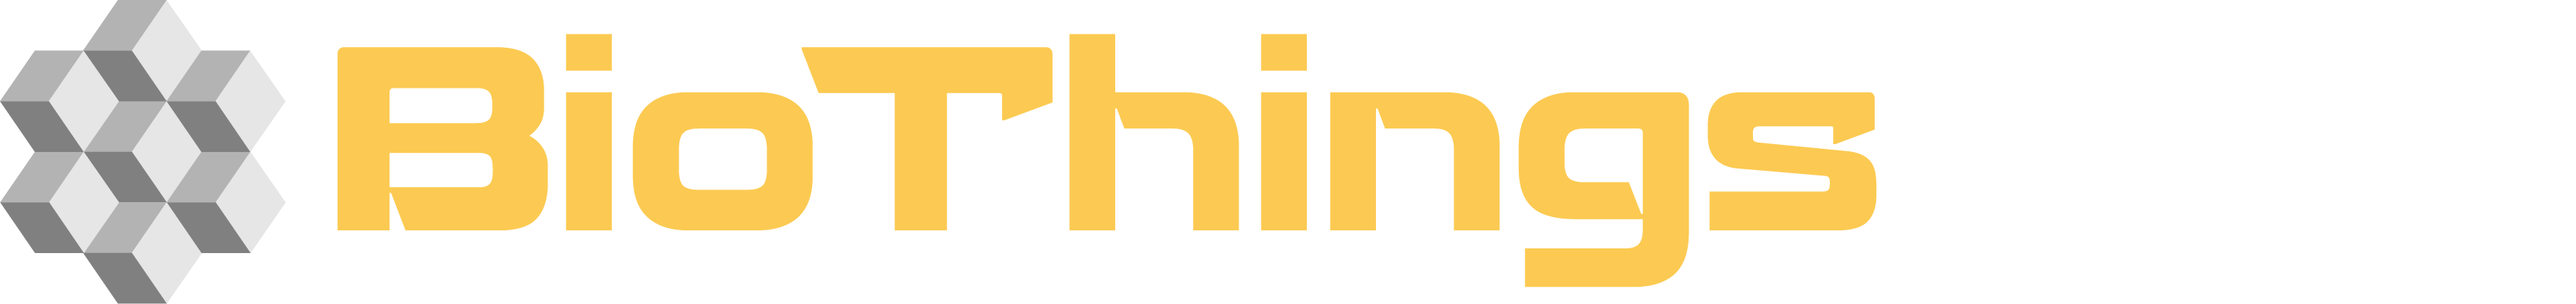
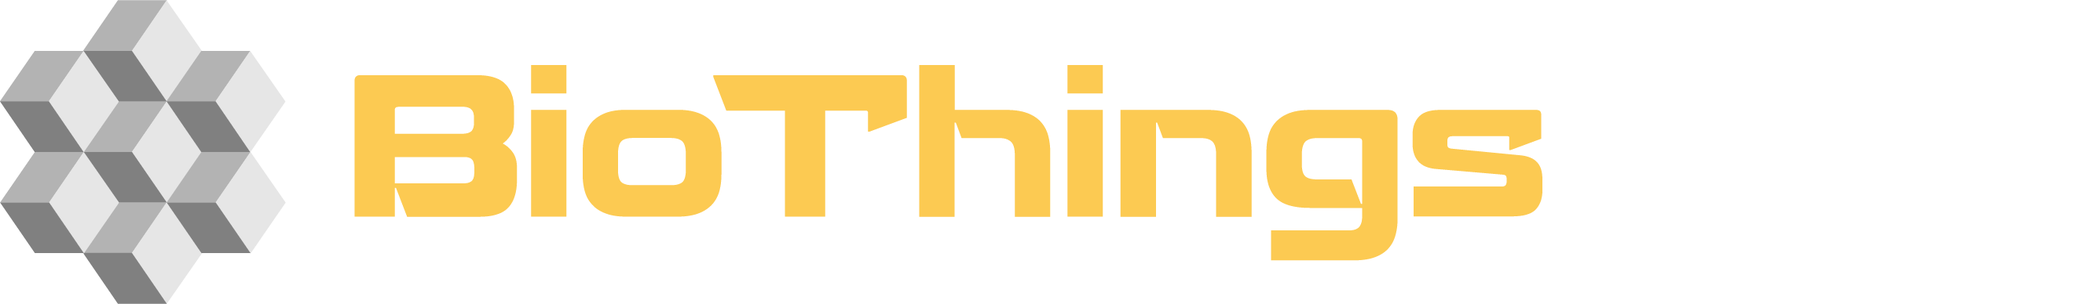
ipad bug fixed

Changed region(s): [[0.0, 0.0, 0.7489, 1.0]]

diff --git a/biothings-theme/static/html/branding.html b/biothings-theme/static/html/branding.html
@@ -137,7 +137,7 @@
 }
 
 .navbar-brand{
-  padding-top: .7125rem;
+  padding-top: 1.1rem;
 }
 
 .navbar-nav .nav-link{
@@ -235,7 +235,7 @@
       <div class="text-center backGrey margin20" id="biothings-branding">
         <div class="row">
           <div class="col-sm-12 col-md-12 col-lg-12 text-center">
-            <h2 class="logoFont padding20">BioThings API</h2>
+            <h2 class="logoFont padding20 margin20">BioThings API</h2>
             <hr />
             <p>
               We use the <b>Recharge</b> font by TypoDermicFonts. <a target="_blank" href="https://www.1001freefonts.com/recharge.font">More Info</a>
@@ -243,22 +243,22 @@
             <h3 class="text-muted padding20">Colors</h3>
             <div class="swatchParent">
               <div class="swatch" style="background-color:var(--yellow-dark);" id="bt1" value="#CE952B">#CE952B
-                <button class="copyButton swatchCopy" data-clipboard-target="#bt1"><i class="fas fa-copy"></i></button>
+                <button style="cursor: pointer;" class="copyButton swatchCopy" data-clipboard-target="#bt1"><i class="fas fa-copy"></i></button>
               </div>
               <div class="swatch" style="background-color:var(--yellow-medium);" id="bt2" value="#FCCA52">#FCCA52
-                <button class="copyButton swatchCopy" data-clipboard-target="#bt2"><i class="fas fa-copy"></i></button>
+                <button style="cursor: pointer;" class="copyButton swatchCopy" data-clipboard-target="#bt2"><i class="fas fa-copy"></i></button>
               </div>
               <div class="swatch" style="background-color:var(--yellow-light);" id="bt3" value="#FCBE38">#FCBE38
-                <button class="copyButton swatchCopy" data-clipboard-target="#bt3"><i class="fas fa-copy"></i></button>
+                <button style="cursor: pointer;" class="copyButton swatchCopy" data-clipboard-target="#bt3"><i class="fas fa-copy"></i></button>
               </div>
               <div class="swatch" style="background-color:var(--grey-dark);" id="bt4" value="#808080">#808080
-                <button class="copyButton swatchCopy" data-clipboard-target="#bt4"><i class="fas fa-copy"></i></button>
+                <button style="cursor: pointer;" class="copyButton swatchCopy" data-clipboard-target="#bt4"><i class="fas fa-copy"></i></button>
               </div>
               <div class="swatch" style="background-color:var(--grey-medium);" id="bt5" value="#B3B3B3">#B3B3B3
-                <button class="copyButton swatchCopy" data-clipboard-target="#bt5"><i class="fas fa-copy"></i></button>
+                <button style="cursor: pointer;" class="copyButton swatchCopy" data-clipboard-target="#bt5"><i class="fas fa-copy"></i></button>
               </div>
               <div class="swatch" style="background-color:var(--grey-light);" id="bt6" value="#E6E6E6">#E6E6E6
-                <button class="copyButton swatchCopy" data-clipboard-target="#bt6"><i class="fas fa-copy"></i></button>
+                <button style="cursor: pointer;" class="copyButton swatchCopy" data-clipboard-target="#bt6"><i class="fas fa-copy"></i></button>
               </div>
             </div>
 
@@ -310,7 +310,7 @@
       <div class="text-center backGrey margin20" id="biothings-studio-branding">
         <div class="row">
           <div class="col-sm-12 col-md-12 col-lg-12 text-center">
-            <h2 class="logoFont padding20">BioThings Studio</h2>
+            <h2 class="logoFont padding20 margin20">BioThings Studio</h2>
             <hr />
             <p>
               We use the <b>Recharge</b> font by TypoDermicFonts. <a target="_blank" href="https://www.1001freefonts.com/recharge.font">More Info</a>
@@ -318,22 +318,22 @@
             <h3 class="text-muted padding20">Colors</h3>
             <div class="swatchParent">
               <div class="swatch" style="background-color:#208CBC;" id="bts1" value="#208CBC">#208CBC
-              <button class="copyButton swatchCopy" data-clipboard-target="#bts1"><i class="fas fa-copy"></i></button>
+              <button style="cursor: pointer;" class="copyButton swatchCopy" data-clipboard-target="#bts1"><i class="fas fa-copy"></i></button>
             </div>
               <div class="swatch" style="background-color:#5ECAEF;" id="bts2" value="#5ECAEF">#5ECAEF
-              <button class="copyButton swatchCopy" data-clipboard-target="#bts2"><i class="fas fa-copy"></i></button>
+              <button style="cursor: pointer;" class="copyButton swatchCopy" data-clipboard-target="#bts2"><i class="fas fa-copy"></i></button>
             </div>
               <div class="swatch" style="background-color:#9EDAEF;" id="bts3" value="#9EDAEF">#9EDAEF
-              <button class="copyButton swatchCopy" data-clipboard-target="#bts3"><i class="fas fa-copy"></i></button>
+              <button style="cursor: pointer;" class="copyButton swatchCopy" data-clipboard-target="#bts3"><i class="fas fa-copy"></i></button>
             </div>
               <div class="swatch" style="background-color:var(--grey-dark);" id="bts4" value="#808080">#808080
-              <button class="copyButton swatchCopy" data-clipboard-target="#bts4"><i class="fas fa-copy"></i></button>
+              <button style="cursor: pointer;" class="copyButton swatchCopy" data-clipboard-target="#bts4"><i class="fas fa-copy"></i></button>
             </div>
               <div class="swatch" style="background-color:var(--grey-medium);" id="bts5" value="#B3B3B3">#B3B3B3
-              <button class="copyButton swatchCopy" data-clipboard-target="#bts5"><i class="fas fa-copy"></i></button>
+              <button style="cursor: pointer;" class="copyButton swatchCopy" data-clipboard-target="#bts5"><i class="fas fa-copy"></i></button>
             </div>
               <div class="swatch" style="background-color:var(--grey-light);" id="bts6" value="#E6E6E6">#E6E6E6
-              <button class="copyButton swatchCopy" data-clipboard-target="#bts6"><i class="fas fa-copy"></i></button>
+              <button style="cursor: pointer;" class="copyButton swatchCopy" data-clipboard-target="#bts6"><i class="fas fa-copy"></i></button>
             </div>
             </div>
 
@@ -385,7 +385,7 @@
       <div class="text-center backGrey margin20" id="mygene-branding">
         <div class="row">
           <div class="col-sm-12 col-md-12 col-lg-12 text-center">
-            <h2 class="logoFont padding20">MyGene.info</h2>
+            <h2 class="logoFont padding20 margin20">MyGene.info</h2>
             <hr />
             <p>
               We use the <b>Recharge</b> font by TypoDermicFonts. <a target="_blank" href="https://www.1001freefonts.com/recharge.font">More Info</a>
@@ -393,22 +393,22 @@
             <h3 class="text-muted padding20">Colors</h3>
             <div class="swatchParent">
               <div class="swatch" style="background-color:var(--blue-dark);" id="mg1" value="#3366CC">#3366CC
-              <button class="copyButton swatchCopy" data-clipboard-target="#mg1"><i class="fas fa-copy"></i></button>
+              <button style="cursor: pointer;" class="copyButton swatchCopy" data-clipboard-target="#mg1"><i class="fas fa-copy"></i></button>
             </div>
               <div class="swatch" style="background-color:var(--blue-medium);" id="mg2" value="#2A7FE2">#2A7FE2
-              <button class="copyButton swatchCopy" data-clipboard-target="#mg2"><i class="fas fa-copy"></i></button>
+              <button style="cursor: pointer;" class="copyButton swatchCopy" data-clipboard-target="#mg2"><i class="fas fa-copy"></i></button>
             </div>
               <div class="swatch" style="background-color:var(--blue-light);" id="mg3" value="#669BE8">#669BE8
-              <button class="copyButton swatchCopy" data-clipboard-target="#mg3"><i class="fas fa-copy"></i></button>
+              <button style="cursor: pointer;" class="copyButton swatchCopy" data-clipboard-target="#mg3"><i class="fas fa-copy"></i></button>
             </div>
               <div class="swatch" style="background-color:var(--grey-dark);" id="mg4" value="#808080">#808080
-              <button class="copyButton swatchCopy" data-clipboard-target="#mg4"><i class="fas fa-copy"></i></button>
+              <button style="cursor: pointer;" class="copyButton swatchCopy" data-clipboard-target="#mg4"><i class="fas fa-copy"></i></button>
             </div>
               <div class="swatch" style="background-color:var(--grey-medium);" id="mg5" value="#B3B3B3">#B3B3B3
-              <button class="copyButton swatchCopy" data-clipboard-target="#mg5"><i class="fas fa-copy"></i></button>
+              <button style="cursor: pointer;" class="copyButton swatchCopy" data-clipboard-target="#mg5"><i class="fas fa-copy"></i></button>
             </div>
               <div class="swatch" style="background-color:var(--grey-light);" id="mg6" value="#E6E6E6">#E6E6E6
-              <button class="copyButton swatchCopy" data-clipboard-target="#mg6"><i class="fas fa-copy"></i></button>
+              <button style="cursor: pointer;" class="copyButton swatchCopy" data-clipboard-target="#mg6"><i class="fas fa-copy"></i></button>
             </div>
             </div>
             <h3 class="text-muted padding20">Logos</h3>
@@ -459,7 +459,7 @@
       <div class="text-center backGrey margin20" id="myvariant-branding">
         <div class="row">
           <div class="col-sm-12 col-md-12 col-lg-12 text-center">
-            <h2 class="logoFont padding20">MyVariant.info</h2>
+            <h2 class="logoFont padding20 margin20">MyVariant.info</h2>
             <hr />
             <p>
               We use the <b>Recharge</b> font by TypoDermicFonts. <a target="_blank" href="https://www.1001freefonts.com/recharge.font">More Info</a>
@@ -467,22 +467,22 @@
             <h3 class="text-muted padding20">Colors</h3>
             <div class="swatchParent">
               <div class="swatch" style="background-color:var(--green-dark);" id="mv1" value="#40B307">#40B307
-              <button class="copyButton swatchCopy" data-clipboard-target="#mv1"><i class="fas fa-copy"></i></button>
+              <button style="cursor: pointer;" class="copyButton swatchCopy" data-clipboard-target="#mv1"><i class="fas fa-copy"></i></button>
             </div>
               <div class="swatch" style="background-color:var(--green-medium);" id="mv2" value="#67CF2E">#67CF2E
-              <button class="copyButton swatchCopy" data-clipboard-target="#mv2"><i class="fas fa-copy"></i></button>
+              <button style="cursor: pointer;" class="copyButton swatchCopy" data-clipboard-target="#mv2"><i class="fas fa-copy"></i></button>
             </div>
               <div class="swatch" style="background-color:var(--green-light);" id="mv3" value="#85D958">#85D958
-              <button class="copyButton swatchCopy" data-clipboard-target="#mv3"><i class="fas fa-copy"></i></button>
+              <button style="cursor: pointer;" class="copyButton swatchCopy" data-clipboard-target="#mv3"><i class="fas fa-copy"></i></button>
             </div>
               <div class="swatch" style="background-color:var(--grey-dark);" id="mv4" value="#808080">#808080
-              <button class="copyButton swatchCopy" data-clipboard-target="#mv4"><i class="fas fa-copy"></i></button>
+              <button style="cursor: pointer;" class="copyButton swatchCopy" data-clipboard-target="#mv4"><i class="fas fa-copy"></i></button>
             </div>
               <div class="swatch" style="background-color:var(--grey-medium);" id="mv5" value="#B3B3B3">#B3B3B3
-              <button class="copyButton swatchCopy" data-clipboard-target="#mv5"><i class="fas fa-copy"></i></button>
+              <button style="cursor: pointer;" class="copyButton swatchCopy" data-clipboard-target="#mv5"><i class="fas fa-copy"></i></button>
             </div>
               <div class="swatch" style="background-color:var(--grey-light);" id="mv6" value="#E6E6E6">#E6E6E6
-              <button class="copyButton swatchCopy" data-clipboard-target="#mv6"><i class="fas fa-copy"></i></button>
+              <button style="cursor: pointer;" class="copyButton swatchCopy" data-clipboard-target="#mv6"><i class="fas fa-copy"></i></button>
             </div>
             </div>
             <h3 class="text-muted padding20">Logos</h3>
@@ -533,7 +533,7 @@
       <div class="text-center backGrey margin20" id="mychem-branding">
         <div class="row">
           <div class="col-sm-12 col-md-12 col-lg-12 text-center">
-            <h2 class="logoFont padding20">MyChem.info</h2>
+            <h2 class="logoFont padding20 margin20">MyChem.info</h2>
             <hr />
             <p>
               We use the <b>Recharge</b> font by TypoDermicFonts. <a target="_blank" href="https://www.1001freefonts.com/recharge.font">More Info</a>
@@ -541,22 +541,22 @@
             <h3 class="text-muted padding20">Colors</h3>
             <div class="swatchParent">
               <div class="swatch" style="background-color:var(--orange-dark);" id="mc1" value="#CC6633">#CC6633
-              <button class="copyButton swatchCopy" data-clipboard-target="#mc1"><i class="fas fa-copy"></i></button>
+              <button style="cursor: pointer;" class="copyButton swatchCopy" data-clipboard-target="#mc1"><i class="fas fa-copy"></i></button>
             </div>
               <div class="swatch" style="background-color:var(--orange-medium);" id="mc2" value="#FD7400">#FD7400
-              <button class="copyButton swatchCopy" data-clipboard-target="#mc2"><i class="fas fa-copy"></i></button>
+              <button style="cursor: pointer;" class="copyButton swatchCopy" data-clipboard-target="#mc2"><i class="fas fa-copy"></i></button>
             </div>
               <div class="swatch" style="background-color:var(--orange-light);" id="mc3" value="#FF8E39">#FF8E39
-              <button class="copyButton swatchCopy" data-clipboard-target="#mc3"><i class="fas fa-copy"></i></button>
+              <button style="cursor: pointer;" class="copyButton swatchCopy" data-clipboard-target="#mc3"><i class="fas fa-copy"></i></button>
             </div>
               <div class="swatch" style="background-color:var(--grey-dark);" id="mc4" value="#808080">#808080
-              <button class="copyButton swatchCopy" data-clipboard-target="#mc4"><i class="fas fa-copy"></i></button>
+              <button style="cursor: pointer;" class="copyButton swatchCopy" data-clipboard-target="#mc4"><i class="fas fa-copy"></i></button>
             </div>
               <div class="swatch" style="background-color:var(--grey-medium);" id="mc5" value="#B3B3B3">#B3B3B3
-              <button class="copyButton swatchCopy" data-clipboard-target="#mc5"><i class="fas fa-copy"></i></button>
+              <button style="cursor: pointer;" class="copyButton swatchCopy" data-clipboard-target="#mc5"><i class="fas fa-copy"></i></button>
             </div>
               <div class="swatch" style="background-color:var(--grey-light);" id="mc6" value="#E6E6E6">#E6E6E6
-              <button class="copyButton swatchCopy" data-clipboard-target="#mc6"><i class="fas fa-copy"></i></button>
+              <button style="cursor: pointer;" class="copyButton swatchCopy" data-clipboard-target="#mc6"><i class="fas fa-copy"></i></button>
             </div>
             </div>
             <h3 class="text-muted padding20">Logos</h3>

diff --git a/myvariant-theme/index.html b/myvariant-theme/index.html
@@ -225,31 +225,31 @@ filter: progid:DXImageTransform.Microsoft.gradient( startColorstr='#00363a40', e
 					<h4 class="noMargin">Retreiving by HGVS id</h4>
 					<br />
 					<span class="text-green bold">GET</span> http://myvariant.info/v1/variant/<span class="text-green bold">chr1:g.35367G>A</span>
-					<button data-url='http://myvariant.info/v1/variant/chr1:g.35367G>A' type="button" class="btn btn-success float-right text-light callButton">Run</button>
+					<button style="cursor: pointer !important;" data-url='http://myvariant.info/v1/variant/chr1:g.35367G>A' type="button" class="btn btn-success float-right text-light callButton">Run</button>
 				</li>
 				<li class="list-group-item">
 					<h4 class="noMargin">All variants with clinvar annotation</h4>
 					<br />
 					<span class="text-green bold">GET</span> http://myvariant.info/v1/query/<span class="text-green bold">?q=_exists_:clinvar</span>
-					<button data-url='http://myvariant.info/v1/query?q=_exists_:clinvar' type="button" class="btn btn-success float-right text-light callButton">Run</button>
+					<button style="cursor: pointer !important;" data-url='http://myvariant.info/v1/query?q=_exists_:clinvar' type="button" class="btn btn-success float-right text-light callButton">Run</button>
 				</li>
 				<li class="list-group-item">
 					<h4 class="noMargin">All non-synonymous variants on gene "BTK"</h4>
 					<br />
 					<span class="text-green bold">GET</span> http://myvariant.info/v1/query/<span class="text-green bold">?q=dbnsfp.genename:BTK</span>
-					<button data-url='http://myvariant.info/v1/query/?q=dbnsfp.genename:BTK' type="button" class="btn btn-success float-right text-light callButton">Run</button>
+					<button style="cursor: pointer !important;" data-url='http://myvariant.info/v1/query/?q=dbnsfp.genename:BTK' type="button" class="btn btn-success float-right text-light callButton">Run</button>
 				</li>
 				<li class="list-group-item">
 					<h4 class="noMargin">All variants within a genomic range</h4>
 					<br />
 					<span class="text-green bold">GET</span> http://myvariant.info/v1/query/<span class="text-green bold">?q=chr1:69000-70000</span>
-					<button data-url='http://myvariant.info/v1/query/?q=chr1:69000-70000' type="button" class="btn btn-success float-right text-light callButton">Run</button>
+					<button style="cursor: pointer !important;" data-url='http://myvariant.info/v1/query/?q=chr1:69000-70000' type="button" class="btn btn-success float-right text-light callButton">Run</button>
 				</li>
 				<li class="list-group-item">
 					<h4 class="noMargin">Query Wellderly variants together with other annotation sources</h4>
 					<br />
 					<span class="text-green bold">GET</span> http://myvariant.info/v1/query/<span class="text-green bold">?q=_exists_:wellderly AND cadd.polyphen.cat:possibly_damaging&fields=wellderly,cadd.polyphen</span>
-					<button data-url='http://myvariant.info/v1/query/?q=_exists_:wellderly AND cadd.polyphen.cat:possibly_damaging&fields=wellderly,cadd.polyphen' type="button" class="btn btn-success float-right text-light callButton">Run</button>
+					<button style="cursor: pointer !important;" data-url='http://myvariant.info/v1/query/?q=_exists_:wellderly AND cadd.polyphen.cat:possibly_damaging&fields=wellderly,cadd.polyphen' type="button" class="btn btn-success float-right text-light callButton">Run</button>
 				</li>
 				<li class="list-group-item">
 					<h4 class="noMargin">Batch queries? Yes, supported!</h4>
@@ -398,7 +398,7 @@ filter: progid:DXImageTransform.Microsoft.gradient( startColorstr='#00363a40', e
 					$('#days7').html(days7);
 			});
 
-			$('.callButton').on('click', function(){
+			$('.callButton').on('click tap', function(){
 				var myUrl = $(this).data('url');
 				$('#callResults').html('');
 				$('#loading').show();

diff --git a/mygene-theme/index.html b/mygene-theme/index.html
@@ -197,25 +197,25 @@
 					<h4 class="noMargin">Retreiving by Entrz or Enesmbl gene id</h4>
 					<br />
 					<span class="text-blue bold">GET</span> http://mygene.info/v3/gene/<span class="text-blue bold">1017</span>
-					<button data-url='http://mygene.info/v3/gene/1017' type="button" class="btn btn-primary float-right text-light callButton">Run</button>
+					<button style="cursor: pointer !important;" data-url='http://mygene.info/v3/gene/1017' type="button" class="btn btn-primary float-right text-light callButton">Run</button>
 				</li>
 				<li class="list-group-item">
 					<h4 class="noMargin">Retreive all where symbol is CDK2</h4>
 					<br />
 					<span class="text-blue bold">GET</span> http://mygene.info/v3/<span class="text-blue bold">query?q=symbol:cdk2</span>
-					<button data-url='http://mygene.info/v3/query?q=symbol:cdk2' type="button" class="btn btn-primary float-right text-light callButton">Run</button>
+					<button style="cursor: pointer !important;" data-url='http://mygene.info/v3/query?q=symbol:cdk2' type="button" class="btn btn-primary float-right text-light callButton">Run</button>
 				</li>
 				<li class="list-group-item">
 					<h4 class="noMargin">Get gene summary text for Insulin</h4>
 					<br />
 					<span class="text-blue bold">GET</span> http://mygene.info/v3/<span class="text-blue bold">query?q=summary:insulin</span>
-					<button data-url='http://mygene.info/v3/query?q=summary:insulin' type="button" class="btn btn-primary float-right text-light callButton">Run</button>
+					<button style="cursor: pointer !important;" data-url='http://mygene.info/v3/query?q=summary:insulin' type="button" class="btn btn-primary float-right text-light callButton">Run</button>
 				</li>
 				<li class="list-group-item">
 					<h4 class="noMargin">Retreive by UniProt id</h4>
 					<br />
 					<span class="text-blue bold">GET</span> http://mygene.info/v3/<span class="text-blue bold">query?q=uniprot:P24941</span>
-					<button data-url='http://mygene.info/v3/query?q=uniprot:P24941' type="button" class="btn btn-primary float-right text-light callButton">Run</button>
+					<button style="cursor: pointer !important;" data-url='http://mygene.info/v3/query?q=uniprot:P24941' type="button" class="btn btn-primary float-right text-light callButton">Run</button>
 				</li>
 				<li class="list-group-item">
 					<h4 class="noMargin">Batch queries? Yes, supported!</h4>
@@ -355,7 +355,7 @@
 					$('#days7').html(days7);
 			});
 
-			$('.callButton').on('click', function(){
+			$('.callButton').on('click tap', function(){
 				window.navigator.vibrate(200);
 				var myUrl = $(this).data('url');
 				$('#callResults').html('');

diff --git a/mychem-theme/index.html b/mychem-theme/index.html
@@ -203,13 +203,13 @@
 					<h4 class="noMargin">Retrieve chemical objects based on ID</h4>
 					<br />
 					<span class="text-orange bold">GET</span> http://mychem.info/v1/chem/<span class="text-orange">USNINKBPBVKHHZ-CYUUQNCZSA-L</span>
-					<button data-url='http://mychem.info/v1/chem/USNINKBPBVKHHZ-CYUUQNCZSA-L' type="button" class="btn btn-orange float-right text-orange callButton">Run</button>
+					<button style="cursor: pointer !important;" data-url='http://mychem.info/v1/chem/USNINKBPBVKHHZ-CYUUQNCZSA-L' type="button" class="btn btn-orange float-right text-orange callButton">Run</button>
 				</li>
 				<li class="list-group-item">
 					<h4 class="noMargin">Make chemical queries and return matching chemical hits</h4>
 					<br />
 					<span class="text-orange bold">GET</span> http://mychem.info/v1/query/<span class="text-orange">?q=USNINKBPBVKHHZ-CYUUQNCZSA-L</span>
-					<button data-url='http://mychem.info/v1/query?q=USNINKBPBVKHHZ-CYUUQNCZSA-L' type="button" class="btn btn-orange float-right text-orange callButton">Run</button>
+					<button style="cursor: pointer !important;" data-url='http://mychem.info/v1/query?q=USNINKBPBVKHHZ-CYUUQNCZSA-L' type="button" class="btn btn-orange float-right text-orange callButton">Run</button>
 				</li>
 				<li>
 					<h4 class="noMargin">Batch queries? Yes, supported!</h4>
@@ -342,7 +342,7 @@
 					$('#days7').html(days7);
 			});
 
-			$('.callButton').on('click', function(){
+			$('.callButton').on('click tap', function(){
 				var myUrl = $(this).data('url');
 				$('#callResults').html('');
 				$('#loading').show();

diff --git a/mychem-theme/header.html b/mychem-theme/header.html
@@ -86,7 +86,7 @@
     </div>
   </div>
 </nav>
-<div id="moreAPIS" class="fullWidth sticky-top" style="display: none; padding-top: 7%; background-color: rgba(0,0,0,.5); overflow: auto; z-index:-1; clear: both; position: fixed; top: 0;">
+<div id="moreAPIS" class="fullWidth sticky-top" style="display: none; padding-top: 10%; background-color: rgba(0,0,0,.5); overflow: auto; z-index:-1; clear: both; position: fixed; top: 0;">
   <div class="row transparent">
     <div class="col-lg-3 col-md-3 col-sm-12 text-center blackTransBack-yellow noPadding">
         <img style="margin: 0 auto;"  width="30%;" src="/static/img/biothings-logo.svg"/>

diff --git a/myvariant-theme/header.html b/myvariant-theme/header.html
@@ -86,7 +86,7 @@
     </div>
   </div>
 </nav>
-<div id="moreAPIS" class="fullWidth sticky-top" style="display: none; padding-top: 7%; background-color: rgba(0,0,0,.5); overflow: auto; z-index:-1; clear: both; position: fixed; top: 0;">
+<div id="moreAPIS" class="fullWidth sticky-top" style="display: none; padding-top: 10%; background-color: rgba(0,0,0,.5); overflow: auto; z-index:-1; clear: both; position: fixed; top: 0;">
   <div class="row transparent">
     <div class="col-lg-3 col-md-3 col-sm-12 text-center blackTransBack-yellow noPadding">
         <img style="margin: 0 auto;"  width="30%;" src="/static/img/biothings-logo.svg"/>

diff --git a/mygene-theme/header.html b/mygene-theme/header.html
@@ -86,7 +86,7 @@
     </div>
   </div>
 </nav>
-<div id="moreAPIS" class="fullWidth" style="display: none; padding-top: 7%; background-color: rgba(0,0,0,.5); overflow: auto; z-index:-1; clear: both; position: fixed; top: 0;">
+<div id="moreAPIS" class="fullWidth" style="display: none; padding-top: 10%; background-color: rgba(0,0,0,.5); overflow: auto; z-index:-1; clear: both; position: fixed; top: 0;">
   <div class="row transparent">
     <div class="col-lg-3 col-md-3 col-sm-12 text-center blackTransBack-yellow noPadding">
         <img style="margin: 0 auto;"  width="30%;" src="/static/img/biothings-logo.svg"/>

diff --git a/biothings-theme/main.html b/biothings-theme/main.html
@@ -24,7 +24,7 @@
     <meta name="twitter:url" content="http://biothings.io" />
     <meta name="twitter:card" content="summary" />
     <meta name="twitter:description" content="Making High Performance Data APIs in Biology" />
-    <link rel="apple-touch-icon" href="/static/img/Biothings.png" />
+    <link rel="apple-touch-icon" href="/static/img/biothings-favicon.png"/>
 		<!-- Tab Favicon -->
 		<link rel="shortcut icon" type="image/png" href="/static/img/biothings-favicon.png"/>
 

diff --git a/biothings-theme/index.html b/biothings-theme/index.html
@@ -130,7 +130,7 @@
 						<td class="text-warning">
 							Taxonomy API
 						</td>
-			      <td class="smallFont">
+			      <td >
 							Taxonomy API provides simple-to-use REST web services to query/retrieve Taxonomy annotation information.</td>
 			      <td>
 							<a target="_blank" href="http://t.biothings.io/" class="btn btn-warning">Try It Out</a>

diff --git a/biothings-theme/header.html b/biothings-theme/header.html
@@ -31,7 +31,7 @@
 }
 
 .navbar-brand{
-  padding-top: .7125rem;
+  padding-top: 1.1rem;
 }
 
 .navbar-nav .nav-link{
